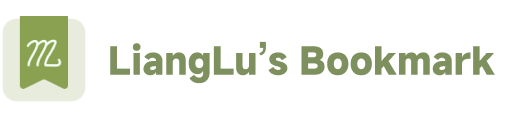
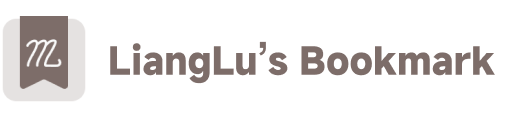
調整顏色變數以改善整體視覺效果，更新按鈕和連結的背景顏色

Changed region(s): [[0.1846, 0.35, 0.9538, 0.7], [0.0308, 0.125, 0.1538, 0.75]]

diff --git a/index.html b/index.html
@@ -18,23 +18,23 @@
     .nav-pills {
         --bs-nav-pills-border-radius: var(--bs-border-radius);
         --bs-nav-pills-link-active-color: #fff;
-        --bs-nav-pills-link-active-bg: #8AA150;
+        --bs-nav-pills-link-active-bg: #7D6D69;
     }
 
     :root {
-        --bs-link-color: #8AA150;
-        --bs-link-hover-color: #515e2e;
+        --bs-link-color: #7D6D69;
+        --bs-link-hover-color: #302624;
     }
 
     .btn-primary {
-        --bs-btn-bg: #8AA150;
-        --bs-btn-border-color: #8AA150;
-        --bs-btn-hover-bg: #515e2e;
-        --bs-btn-hover-border-color: #515e2e;
+        --bs-btn-bg: #7D6D69;
+        --bs-btn-border-color: #7D6D69;
+        --bs-btn-hover-bg: #302624;
+        --bs-btn-hover-border-color: #302624;
     }
 
     .form-control:focus {
-        border-color: #8aa15000;
+        border-color: #7D6D6900;
         box-shadow: 0 0 0 .25rem rgba(38, 92, 16, 0);
     }
 
@@ -2360,8 +2360,8 @@
     </div>
 
     
-<button id="toTop" class="position-fixed bottom-0 start-0 m-4 border-0 "
-style="display: none; background-color: #515e2e00;">
+<button id="toTop" class="position-fixed bottom-0 start-0 m-4 border-0 shadow-md"
+style="display: none; background-color: #30262400;">
     <div style="width: 48px;height: 48px;"
         class="btn btn-primary rounded-circle d-flex justify-content-center align-items-center">
         <svg xmlns="http://www.w3.org/2000/svg" width="32" height="32" fill="currentColor" class="bi bi-arrow-up"

diff --git a/generater.py b/generater.py
@@ -17,23 +17,23 @@ page_css = """
     .nav-pills {
         --bs-nav-pills-border-radius: var(--bs-border-radius);
         --bs-nav-pills-link-active-color: #fff;
-        --bs-nav-pills-link-active-bg: #8AA150;
+        --bs-nav-pills-link-active-bg: #7D6D69;
     }
 
     :root {
-        --bs-link-color: #8AA150;
-        --bs-link-hover-color: #515e2e;
+        --bs-link-color: #7D6D69;
+        --bs-link-hover-color: #302624;
     }
 
     .btn-primary {
-        --bs-btn-bg: #8AA150;
-        --bs-btn-border-color: #8AA150;
-        --bs-btn-hover-bg: #515e2e;
-        --bs-btn-hover-border-color: #515e2e;
+        --bs-btn-bg: #7D6D69;
+        --bs-btn-border-color: #7D6D69;
+        --bs-btn-hover-bg: #302624;
+        --bs-btn-hover-border-color: #302624;
     }
 
     .form-control:focus {
-        border-color: #8aa15000;
+        border-color: #7D6D6900;
         box-shadow: 0 0 0 .25rem rgba(38, 92, 16, 0);
     }
 
@@ -112,7 +112,7 @@ function handleSearch(event) {
 
 totop_html = """
 <button id="toTop" class="position-fixed bottom-0 start-0 m-4 border-0 shadow-md"
-style="display: none; background-color: #515e2e00;">
+style="display: none; background-color: #30262400;">
     <div style="width: 48px;height: 48px;"
         class="btn btn-primary rounded-circle d-flex justify-content-center align-items-center">
         <svg xmlns="http://www.w3.org/2000/svg" width="32" height="32" fill="currentColor" class="bi bi-arrow-up"
